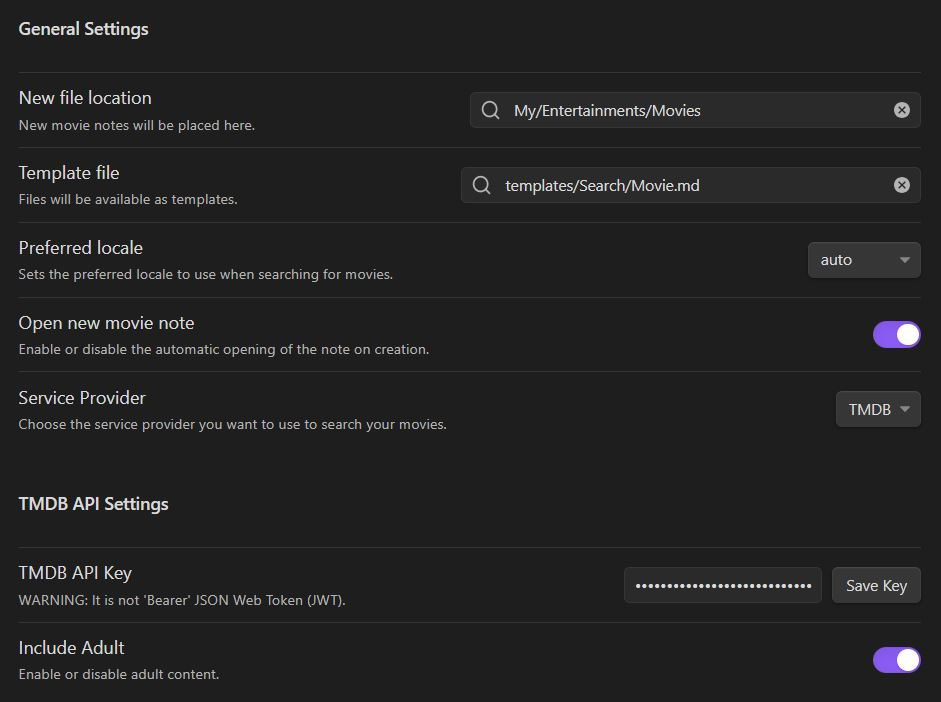
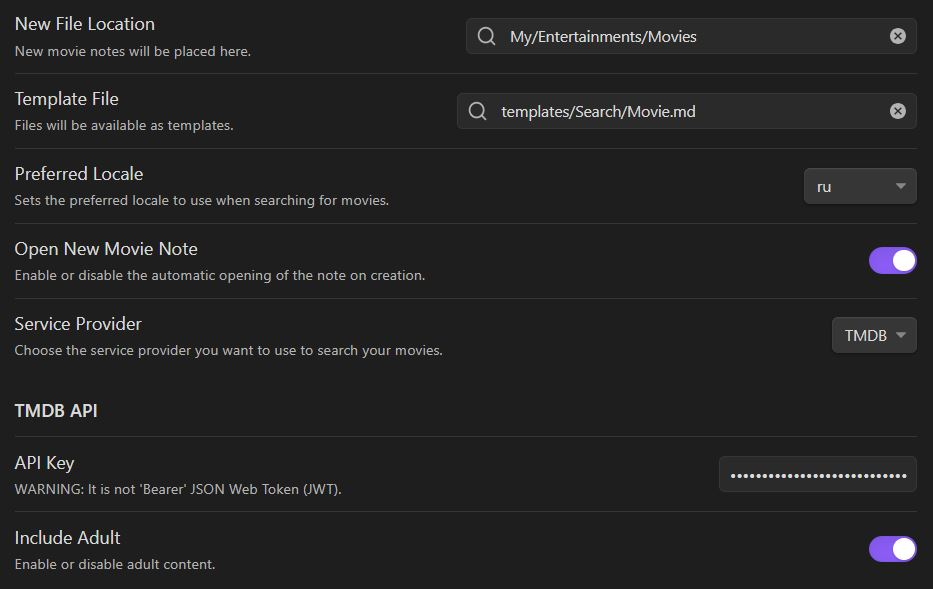
Minor fixes

diff --git a/src/settings/settings.ts b/src/settings/settings.ts
@@ -1,4 +1,4 @@
-import { App, PluginSettingTab, Setting, Notice } from "obsidian";
+import { App, PluginSettingTab, Setting } from "obsidian";
 
 import { ServiceProvider } from "@src/constants";
 
@@ -14,7 +14,6 @@ export enum DefaultFrontmatterKeyType {
 
 export interface MovieSearchPluginSettings {
 	folder: string; // new file location
-	file_name_format: string; // new file name format
 	template_file: string;
 	open_page_on_completion: boolean;
 	locale_preference: string;
@@ -30,7 +29,6 @@ export interface MovieSearchPluginSettings {
 
 export const DEFAULT_SETTINGS: MovieSearchPluginSettings = {
 	folder: "",
-	file_name_format: "{{title}}",
 	template_file: "",
 	open_page_on_completion: true,
 	locale_preference: "auto",
@@ -57,13 +55,10 @@ export class MovieSearchSettingTab extends PluginSettingTab {
 		const { containerEl } = this;
 
 		containerEl.empty();
-
 		containerEl.classList.add("movie-search-plugin__settings");
-
-		createHeader(containerEl, "General Settings");
-
+		// General Settings
 		new Setting(containerEl)
-			.setName("New file location")
+			.setName("New File Location")
 			.setDesc("New movie notes will be placed here.")
 			.addSearch(cb => {
 				try {
@@ -78,9 +73,8 @@ export class MovieSearchSettingTab extends PluginSettingTab {
 						this.plugin.saveSettings();
 					});
 			});
-
 		new Setting(containerEl)
-			.setName("Template file")
+			.setName("Template File")
 			.setDesc("Files will be available as templates.")
 			.addSearch(cb => {
 				try {
@@ -95,9 +89,8 @@ export class MovieSearchSettingTab extends PluginSettingTab {
 						this.plugin.saveSettings();
 					});
 			});
-
 		new Setting(containerEl)
-			.setName("Preferred locale")
+			.setName("Preferred Locale")
 			.setDesc("Sets the preferred locale to use when searching for movies.")
 			.addDropdown(dropdown => {
 				const default_locale = "auto";
@@ -117,9 +110,8 @@ export class MovieSearchSettingTab extends PluginSettingTab {
 					await this.plugin.saveSettings();
 				});
 			});
-
 		new Setting(containerEl)
-			.setName("Open new movie note")
+			.setName("Open New Movie Note")
 			.setDesc("Enable or disable the automatic opening of the note on creation.")
 			.addToggle(toggle =>
 				toggle.setValue(this.plugin.settings.open_page_on_completion).onChange(async value => {
@@ -127,7 +119,6 @@ export class MovieSearchSettingTab extends PluginSettingTab {
 					await this.plugin.saveSettings();
 				}),
 			);
-
 		new Setting(containerEl)
 			.setName("Service Provider")
 			.setDesc("Choose the service provider you want to use to search your movies.")
@@ -141,29 +132,23 @@ export class MovieSearchSettingTab extends PluginSettingTab {
 					await this.plugin.saveSettings();
 				});
 			});
+		// API Settings
+		new Setting(containerEl).setName(`${this.plugin.settings.service_provider.toUpperCase()} API`).setHeading();
 
-		const APISettingsChildren: Setting[] = [];
-		createHeader(containerEl, "TMDB API Settings");
-		let temp_key_value = "";
-		APISettingsChildren.push(
+		const APISettings: Setting[] = [];
+		APISettings.push(
 			new Setting(containerEl)
-				.setName("TMDB API Key")
+				.setName("API Key")
 				.setDesc("WARNING: It is not 'Bearer' JSON Web Token (JWT).")
 				.addText(text => {
 					text.inputEl.type = "password";
 					text.setValue(this.plugin.settings.api_key).onChange(async value => {
-						temp_key_value = value;
-					});
-				})
-				.addButton(button => {
-					button.setButtonText("Save Key").onClick(async () => {
-						this.plugin.settings.api_key = temp_key_value;
+						this.plugin.settings.api_key = value;
 						await this.plugin.saveSettings();
-						new Notice("API key saved!");
 					});
 				}),
 		);
-		APISettingsChildren.push(
+		APISettings.push(
 			new Setting(containerEl)
 				.setName("Include Adult")
 				.setDesc("Enable or disable adult content.")
@@ -175,10 +160,4 @@ export class MovieSearchSettingTab extends PluginSettingTab {
 				),
 		);
 	}
-}
-
-function createHeader(container_element: HTMLElement, title: string) {
-	const title_element = document.createDocumentFragment();
-	title_element.createEl("h2", { text: title });
-	return new Setting(container_element).setHeading().setName(title_element);
 }

diff --git a/src/main.ts b/src/main.ts
@@ -1,4 +1,4 @@
-import { MarkdownView, Notice, Plugin, TFile } from "obsidian";
+import { Editor, MarkdownView, Notice, Plugin, TFile, stringifyYaml } from "obsidian";
 
 import { MovieSearchModal } from "@views/movie_search_modal";
 import { MovieSuggestModal } from "@views/movie_suggest_modal";
@@ -15,7 +15,7 @@ import {
 	use_templater_plugin_in_file,
 	execute_inline_scripts_template,
 } from "@utils/template";
-import { replace_variable_syntax, make_file_name_for_, apply_default_frontmatter, to_string_ } from "@utils/utils";
+import { replace_variable_syntax, make_file_name_for_, apply_default_frontmatter } from "@utils/utils";
 
 export default class MovieSearchPlugin extends Plugin {
 	settings: MovieSearchPluginSettings;
@@ -34,13 +34,11 @@ export default class MovieSearchPlugin extends Plugin {
 			name: "Create new movie note",
 			callback: () => this.create_new_movie_note(),
 		});
-
 		this.addCommand({
 			id: "open-movie-search-modal-to-insert",
 			name: "Insert a movie data",
-			callback: () => this.insert_data(),
+			editorCallback: (editor: Editor, view: MarkdownView) => this.insert_data(editor, view.file.basename),
 		});
-
 		// This adds a settings tab so the user can configure various aspects of the plugin
 		this.addSettingTab(new MovieSearchSettingTab(this.app, this));
 
@@ -76,10 +74,9 @@ export default class MovieSearchPlugin extends Plugin {
 			const replaced_variable = replace_variable_syntax(movie, apply_template_transformations(template_contents));
 			return execute_inline_scripts_template(movie, replaced_variable);
 		}
-
 		let replaced_variable_frontmatter = replace_variable_syntax(movie, frontmatter); // @deprecated
 		if (use_default_frontmatter) {
-			replaced_variable_frontmatter = to_string_(
+			replaced_variable_frontmatter = stringifyYaml(
 				apply_default_frontmatter(movie, replaced_variable_frontmatter, default_frontmatter_key_type),
 			);
 		}
@@ -90,21 +87,11 @@ export default class MovieSearchPlugin extends Plugin {
 			: replaced_variable_content;
 	}
 
-	async insert_data(): Promise<void> {
+	async insert_data(editor: Editor, file_basename: string): Promise<void> {
 		try {
-			const markdown_view = this.app.workspace.getActiveViewOfType(MarkdownView);
-			if (!markdown_view) {
-				console.warn("Can not find an active markdown view");
-				return;
-			}
-			const movie = await this.search_movie_data(markdown_view.file.basename);
-
-			if (!markdown_view.editor) {
-				console.warn("Can not find editor from the active markdown view");
-				return;
-			}
+			const movie = await this.search_movie_data(file_basename);
 			const renderedContents = await this.get_rendered_contents(movie);
-			markdown_view.editor.replaceRange(renderedContents, { line: 0, ch: 0 });
+			editor.replaceRange(renderedContents, { line: 0, ch: 0 });
 		} catch (err) {
 			console.warn(err);
 			this.show_notice(err);
@@ -117,7 +104,7 @@ export default class MovieSearchPlugin extends Plugin {
 			const rendered_contents = await this.get_rendered_contents(movie);
 
 			// create new File
-			const fileName = make_file_name_for_(movie, this.settings.file_name_format);
+			const fileName = make_file_name_for_(movie);
 			const filePath = `${this.settings.folder}/${fileName}`;
 			const targetFile = await this.app.vault.create(filePath, rendered_contents);
 
@@ -131,7 +118,6 @@ export default class MovieSearchPlugin extends Plugin {
 
 	async open_new_movie_note(target_file: TFile) {
 		if (!this.settings.open_page_on_completion) return;
-
 		// open file
 		const active_leaf = this.app.workspace.getLeaf();
 		if (!active_leaf) {

diff --git a/src/utils/utils.ts b/src/utils/utils.ts
@@ -1,3 +1,4 @@
+import { parseYaml } from "obsidian";
 import { Movie, Frontmatter } from "@models/movie.model";
 import { DefaultFrontmatterKeyType } from "@settings/settings";
 
@@ -9,14 +10,8 @@ export function replace_illegal_file_name_characters_in_(text: string) {
 	return text.replace(/[\\,#%&{}/*<>$":@.?]/g, "").replace(/\s+/g, " ");
 }
 
-export function make_file_name_for_(movie: Movie, file_name_format?: string) {
-	let result: string;
-	if (file_name_format) {
-		result = replace_variable_syntax(movie, replace_date_in_(file_name_format));
-	} else {
-		result = movie.title;
-	}
-	return replace_illegal_file_name_characters_in_(result) + ".md";
+export function make_file_name_for_(movie: Movie) {
+	return replace_illegal_file_name_characters_in_(movie.title) + ".md";
 }
 
 export function change_snake_case(movie: Movie) {
@@ -32,7 +27,7 @@ export function apply_default_frontmatter(
 	key_type: DefaultFrontmatterKeyType = DefaultFrontmatterKeyType.snake_case,
 ) {
 	const _frontmatter = key_type === DefaultFrontmatterKeyType.camel_case ? movie : change_snake_case(movie);
-	const extra_front_matter = typeof frontmatter === "string" ? parse_(frontmatter) : frontmatter;
+	const extra_front_matter = typeof frontmatter === "string" ? parseYaml(frontmatter) : frontmatter;
 
 	for (const key in extra_front_matter) {
 		const value = extra_front_matter[key]?.toString().trim() ?? "";
@@ -58,44 +53,8 @@ export function camel_to_snake_case(str: string) {
 	return str.replace(/[A-Z]/g, letter => `_${letter?.toLowerCase()}`);
 }
 
-export function parse_(frontmatter: string) {
-	if (!frontmatter) return {};
-	return frontmatter
-		.split("\n")
-		.map(item => {
-			const index = item.indexOf(":");
-			if (index === -1) return [item.trim(), ""];
-
-			const key = item.slice(0, index)?.trim();
-			const value = item.slice(index + 1)?.trim();
-			return [key, value];
-		})
-		.reduce((acc, [key, value]) => {
-			if (key) {
-				acc[key] = value?.trim() ?? "";
-			}
-			return acc;
-		}, {});
-}
-
-export function to_string_(frontmatter: object): string {
-	return Object.entries(frontmatter)
-		.map(([key, value]) => {
-			const new_value = value?.toString().trim() ?? "";
-			if (/\r|\n/.test(new_value)) {
-				return "";
-			}
-			if (/:\s/.test(new_value)) {
-				return `${key}: "${new_value.replace(/"/g, "&quot;")}"\n`;
-			}
-			return `${key}: ${new_value}\n`;
-		})
-		.join("")
-		.trim();
-}
-
 export function getDate(input?: { format?: string; offset?: number }) {
-	let duration;
+	let duration: moment.Duration;
 
 	if (input?.offset !== null && input?.offset !== undefined && typeof input.offset === "number")
 		duration = window.moment.duration(input.offset, "days");
@@ -135,7 +94,7 @@ export function replace_date_in_(input: string) {
 	return output;
 }
 
-function replacer(str: string, reg: RegExp, replace_value) {
+function replacer(str: string, reg: RegExp, replace_value: string) {
 	return str.replace(reg, function () {
 		return replace_value;
 	});
